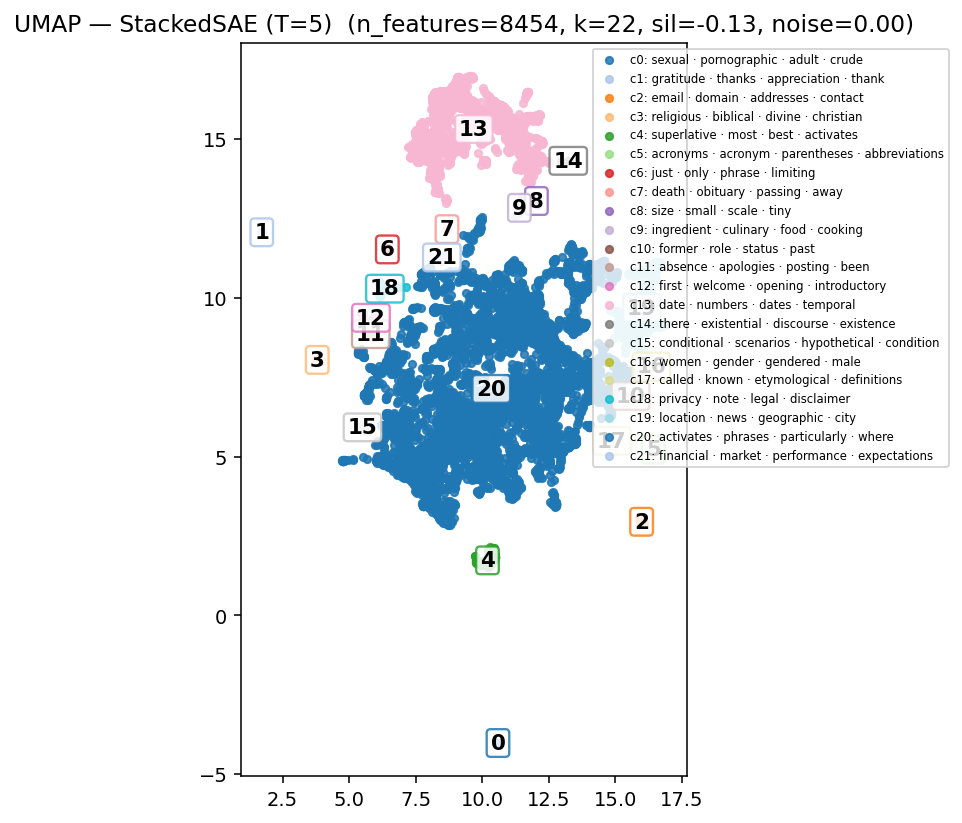
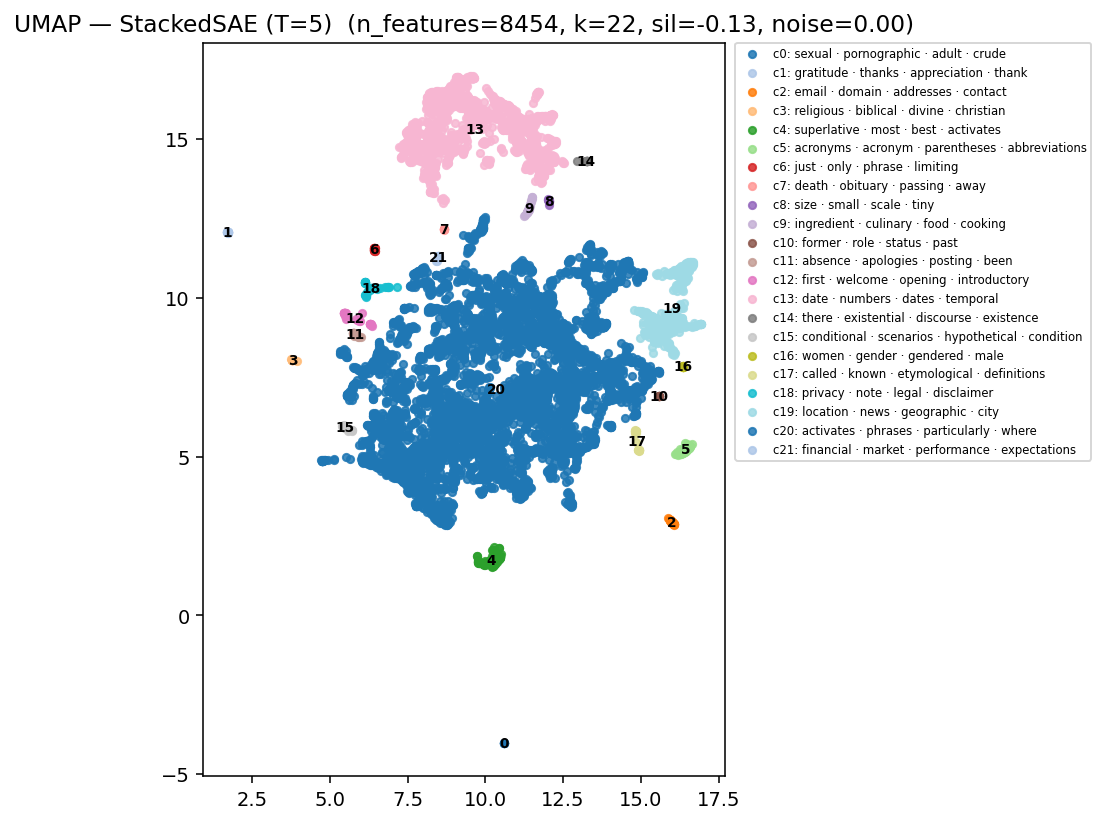
umap: smaller cluster index labels (no outline) and legend flush against map
- Index annotations: fontsize 11 → 7, drop the white-bbox outline. Stays
  legible on the scatter without crowding it.
- Legend anchor: bbox_to_anchor=(1.6, 1.0) → (1.02, 1.0) with
  borderaxespad=0, so the legend sits flush against the right edge of
  the axes. The map occupies most of the figure width instead of being
  pushed to the left by ~50% of empty whitespace between map and legend.

diff --git a/safety_research/scripts/umap_meta.py b/safety_research/scripts/umap_meta.py
@@ -250,8 +250,9 @@ def run_arm(arm: str) -> dict | None:
                        label=f"c{cid}: {cl_names.get(cid, '')}",
                        alpha=0.85)
 
-    # Annotate each non-noise cluster with its index at its centroid so the
-    # map is readable without referring to the legend.
+    # Annotate each non-noise cluster with its index at its centroid (small,
+    # no outline) so the map is readable at a glance without referring to
+    # the legend.
     for cid in sorted(set(labels)):
         if cid < 0:
             continue
@@ -259,17 +260,17 @@ def run_arm(arm: str) -> dict | None:
         cx, cy = proj[m, 0].mean(), proj[m, 1].mean()
         ax.text(
             cx, cy, str(cid),
-            fontsize=11, fontweight="bold", ha="center", va="center",
+            fontsize=7, fontweight="bold", ha="center", va="center",
             color="black",
-            bbox=dict(boxstyle="round,pad=0.18", facecolor="white",
-                      edgecolor=palette[cid % len(palette)], alpha=0.85,
-                      linewidth=1.2),
         )
 
     ax.set_title(f"UMAP — {ARM_DISPLAY.get(arm, arm)}  "
                  f"(n_features={len(texts)}, k={n_clusters}, "
                  f"sil={sil:.2f}, noise={noise_frac:.2f})")
-    ax.legend(fontsize=6, loc="upper right", bbox_to_anchor=(1.6, 1.0))
+    # Map takes the left portion; legend sits flush against the right edge
+    # of the axes (no extra horizontal whitespace between map and legend).
+    ax.legend(fontsize=6, loc="upper left", bbox_to_anchor=(1.02, 1.0),
+              borderaxespad=0.0)
     plt.tight_layout()
     fig.savefig(FIG_DIR / f"umap_{arm}.png", dpi=140, bbox_inches="tight")
     plt.close(fig)
